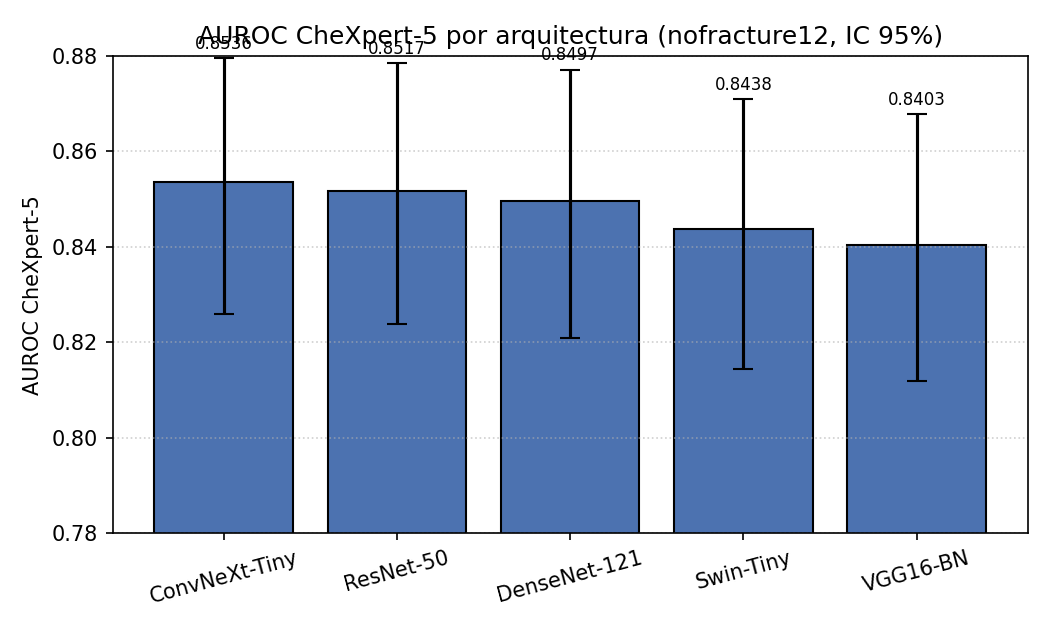
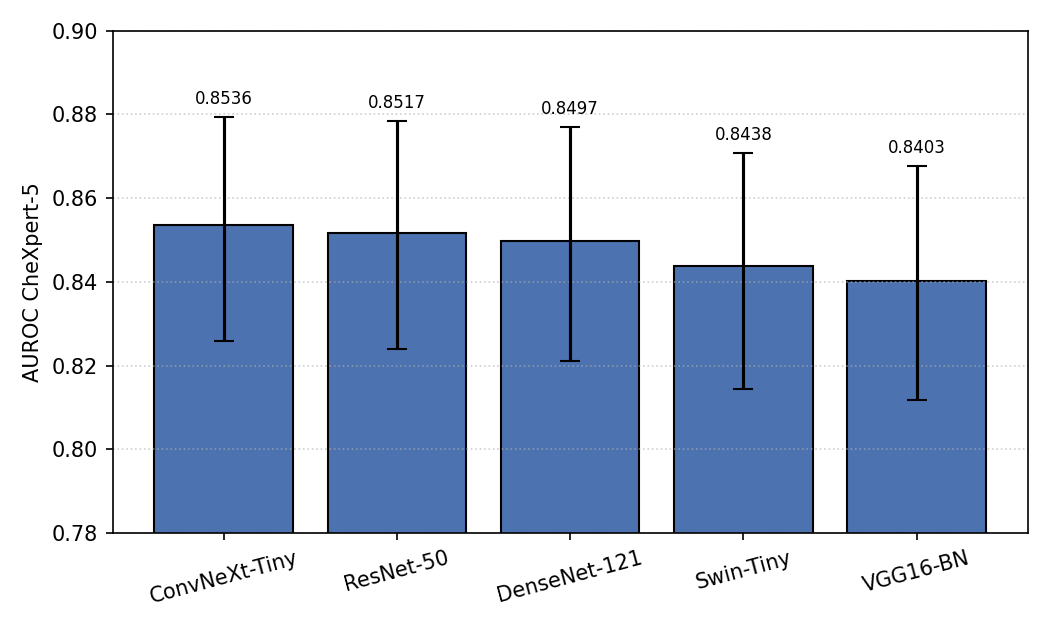
Corregir maquetacion de figuras: Grad-CAM una fila por caso, informe PDF en secuencia, arbol del repositorio como texto y graficas de barras sin solape con margen superior

diff --git a/mainmatter/chapter7.tex b/mainmatter/chapter7.tex
@@ -26,18 +26,21 @@ experimentos— quedan fuera del control de versiones.
 
 \begin{figure}[ht]
 \centering
-\begin{tikzpicture}[font=\small,
-  root/.style={draw, rounded corners, fill=blue!12, minimum height=0.8cm},
-  leaf/.style={draw, rounded corners, fill=gray!8, anchor=west, minimum height=0.62cm, text width=7.4cm, align=left}]
-\node[root] (r) at (0,0.35) {\texttt{MDL\_TFM/}};
-\node[leaf] (a) at (3.2,2.2) {\texttt{src/} — código (modelos, API, app, entrenamiento)};
-\node[leaf] (b) at (3.2,1.45) {\texttt{config/} — \texttt{config.yml}};
-\node[leaf] (c) at (3.2,0.7) {\texttt{test/} — pruebas \textit{pytest}};
-\node[leaf] (d) at (3.2,-0.05) {\texttt{docs/} — documentación};
-\node[leaf] (e) at (3.2,-0.8) {\texttt{.github/} — integración continua (CI/CD)};
-\node[leaf] (f) at (3.2,-1.55) {\texttt{Dockerfile}, \texttt{docker-compose.yml}, \texttt{requirements.txt}};
-\foreach \x in {a,b,c,d,e,f} \draw[-{Latex}] (r.east) -- (\x.west);
-\end{tikzpicture}
+\begin{minipage}{0.82\textwidth}
+\begin{verbatim}
+MDL_TFM/
+|-- src/                  codigo: modelos, API, app, entrenamiento
+|-- config/               configuracion (config.yml)
+|-- test/                 pruebas (pytest)
+|-- docs/                 documentacion
+|-- .github/              integracion continua (CI/CD)
+|-- models/               checkpoints (no versionado)
+|-- experiments/          resultados por run (no versionado)
+|-- Dockerfile
+|-- docker-compose.yml
+`-- requirements.txt
+\end{verbatim}
+\end{minipage}
 \caption{Estructura del repositorio del proyecto.}
 \label{fig::repro_estructura}
 \end{figure}

diff --git a/mainmatter/chapter4.tex b/mainmatter/chapter4.tex
@@ -298,11 +298,12 @@ una garantía de corrección.
 
 \begin{figure}[h]
 \centering
-\includegraphics[width=0.48\textwidth]{figures/gradcam-ejemplos_1.png}\hfill
-\includegraphics[width=0.48\textwidth]{figures/gradcam-ejemplos_2.png}\\[6pt]
-\includegraphics[width=0.48\textwidth]{figures/gradcam-ejemplos_3.png}\hfill
-\includegraphics[width=0.48\textwidth]{figures/gradcam-ejemplos_4.png}
-\caption{Ejemplos de explicaciones visuales generadas con Grad-CAM.}
+\includegraphics[width=0.92\textwidth]{figures/gradcam-ejemplos_1.png}\\[8pt]
+\includegraphics[width=0.92\textwidth]{figures/gradcam-ejemplos_2.png}\\[8pt]
+\includegraphics[width=0.92\textwidth]{figures/gradcam-ejemplos_3.png}\\[8pt]
+\includegraphics[width=0.92\textwidth]{figures/gradcam-ejemplos_4.png}
+\caption{Ejemplos de explicaciones Grad-CAM. En cada fila, de izquierda a derecha:
+la radiografía original y los mapas de calor de dos modelos sobre la misma imagen.}
 \label{fig::gradcam_ejemplos}
 \end{figure}
 

diff --git a/mainmatter/chapter5.tex b/mainmatter/chapter5.tex
@@ -262,10 +262,11 @@ apoyo y no de diagnóstico definitivo.
 
 \begin{figure}[h]
 \centering
-\includegraphics[width=0.42\textwidth]{figures/informe-pdf_1.png}\hfill
-\includegraphics[width=0.42\textwidth]{figures/informe-pdf_2.png}\\[6pt]
-\includegraphics[width=0.42\textwidth]{figures/informe-pdf_3.png}\hfill
-\includegraphics[width=0.42\textwidth]{figures/informe-pdf_4.png}
-\caption{Informe PDF generado por la aplicación.}
+\includegraphics[width=0.235\textwidth]{figures/informe-pdf_1.png}\hfill
+\includegraphics[width=0.235\textwidth]{figures/informe-pdf_2.png}\hfill
+\includegraphics[width=0.235\textwidth]{figures/informe-pdf_3.png}\hfill
+\includegraphics[width=0.235\textwidth]{figures/informe-pdf_4.png}
+\caption{Informe PDF generado por la aplicación, mostrado en secciones sucesivas
+(de izquierda a derecha, según el orden de lectura del documento).}
 \label{fig::informe-pdf}
 \end{figure}